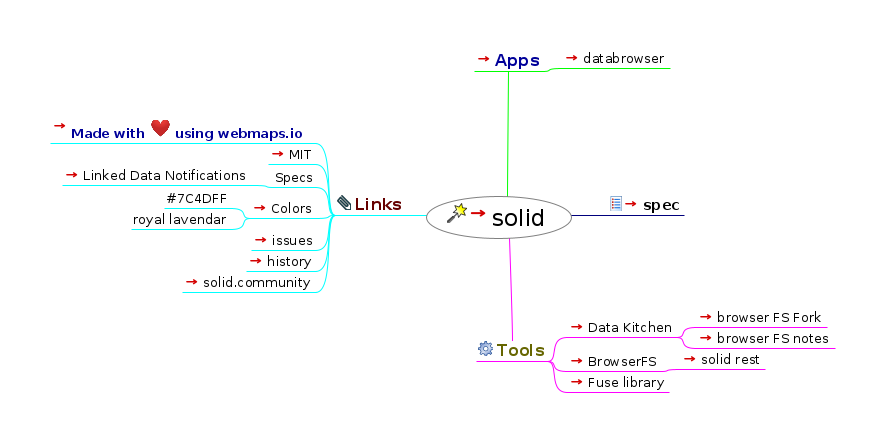
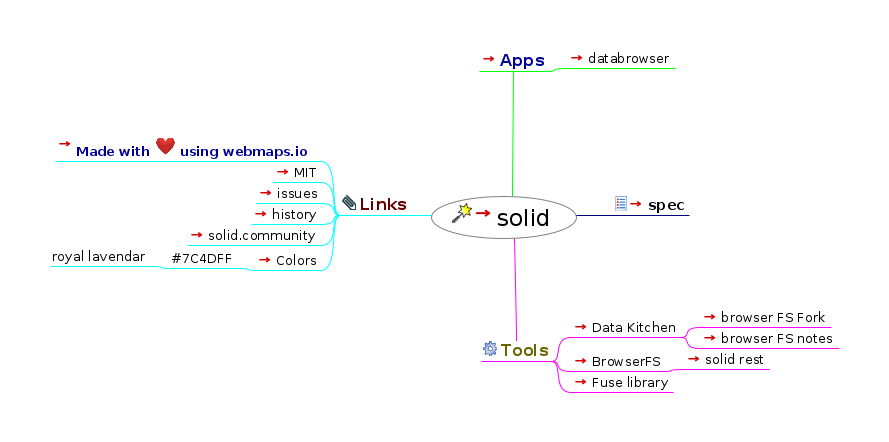
add html

diff --git a/index.html b/index.html
@@ -23,31 +23,29 @@
                    };
                };
           
-          --></script></head><body><h1>solid</h1><div style="width:96%;  padding:2%;  margin-bottom:10px;  border: 0px;  text-align:center;  vertical-align:center;"><img src="index.html_files/image.png" style="margin-bottom:10px; &#9;border: 0px; &#9;text-align:center; &#9;vertical-align:center;" alt="Imagemap" usemap="#fm_imagemap" /></div><map name="fm_imagemap" id="fm_imagemap"><area shape="rect" href="../tech/index.html" alt="solid" title="solid" coords="426,196,572,239" />
-<area shape="rect" href="apps/index.html" alt="Apps" title="Apps" coords="474,51,543,71" />
-<area shape="rect" href="databrowser/index.html" alt="databrowser" title="databrowser" coords="562,50,670,68" />
-<area shape="rect" href="spec/index.html" alt="spec" title="spec" coords="607,196,684,215" />
-<area shape="rect" href="#FMID_1810859973FM" alt="Tools" title="Tools" coords="476,341,548,361" />
-<area shape="rect" href="https://github.com/solid/data-kitchen" alt="Data Kitchen" title="Data Kitchen" coords="567,319,677,337" />
-<area shape="rect" href="https://github.com/jeff-zucker/data-kitchen" alt="browser FS Fork" title="browser FS Fork" coords="696,309,827,327" />
-<area shape="rect" href="https://github.com/jeff-zucker/data-kitchen/blob/master/README.jz.md#these-things-currenlty-work-using-the-databrowser-in-file-and-app-spaces" alt="browser FS notes" title="browser FS notes" coords="696,330,835,348" />
-<area shape="rect" href="https://github.com/jvilk/BrowserFS" alt="BrowserFS" title="BrowserFS" coords="567,353,661,371" />
-<area shape="rect" href="https://github.com/jeff-zucker/solid-rest/tree/browserFS" alt="solid rest" title="solid rest" coords="680,351,765,369" />
-<area shape="rect" href="https://github.com/fuse-friends/fuse-native" alt="Fuse library" title="Fuse library" coords="567,374,669,392" />
-<area shape="rect" href="#FMID_777477932FM" alt="Links" title="Links" coords="335,195,405,215" />
-<area shape="rect" href="https://webmaps.io/" alt="Made with  using webmaps.io" title="Made with  using webmaps.io" coords="50,118,316,143" />
-<area shape="rect" href="https://solid.mit.edu" alt="MIT" title="MIT" coords="268,146,316,164" />
-<area shape="rect" href="#FMID_1604622862FM" alt="Specs" title="Specs" coords="273,169,316,187" />
-<area shape="rect" href="https://www.w3.org/TR/ldn/" alt="Linked Data Notifications" title="Linked Data Notifications" coords="62,167,254,185" />
-<area shape="rect" href="https://design.inrupt.com/atomic-core/?cat=Core#Colors" alt="Colors" title="Colors" coords="250,200,316,218" />
-<area shape="rect" href="#FMID_1864362129FM" alt="#7C4DFF" title="#7C4DFF" coords="164,190,231,208" />
-<area shape="rect" href="#FMID_1993946970FM" alt="royal lavendar" title="royal lavendar" coords="131,211,231,229" />
-<area shape="rect" href="issues/index.html" alt="issues" title="issues" coords="251,232,316,250" />
-<area shape="rect" href="https://www.w3.org/wiki/Socialwg/2015-03-18-minutes" alt="history" title="history" coords="246,253,316,271" />
-<area shape="rect" href="solid.community/index.html" alt="solid.community" title="solid.community" coords="182,274,316,292" />
+          --></script></head><body><h1>solid</h1><div style="width:96%;  padding:2%;  margin-bottom:10px;  border: 0px;  text-align:center;  vertical-align:center;"><img src="index.html_files/image.png" style="margin-bottom:10px; &#9;border: 0px; &#9;text-align:center; &#9;vertical-align:center;" alt="Imagemap" usemap="#fm_imagemap" /></div><map name="fm_imagemap" id="fm_imagemap"><area shape="rect" href="../tech/index.html" alt="solid" title="solid" coords="431,196,577,239" />
+<area shape="rect" href="apps/index.html" alt="Apps" title="Apps" coords="479,51,548,71" />
+<area shape="rect" href="databrowser/index.html" alt="databrowser" title="databrowser" coords="567,50,675,68" />
+<area shape="rect" href="spec/index.html" alt="spec" title="spec" coords="612,196,689,215" />
+<area shape="rect" href="#FMID_1810859973FM" alt="Tools" title="Tools" coords="481,341,552,361" />
+<area shape="rect" href="https://github.com/solid/data-kitchen" alt="Data Kitchen" title="Data Kitchen" coords="571,319,681,337" />
+<area shape="rect" href="https://github.com/jeff-zucker/data-kitchen" alt="browser FS Fork" title="browser FS Fork" coords="700,309,831,327" />
+<area shape="rect" href="https://github.com/jeff-zucker/data-kitchen/blob/master/README.jz.md#these-things-currenlty-work-using-the-databrowser-in-file-and-app-spaces" alt="browser FS notes" title="browser FS notes" coords="700,330,839,348" />
+<area shape="rect" href="https://github.com/jvilk/BrowserFS" alt="BrowserFS" title="BrowserFS" coords="571,353,665,371" />
+<area shape="rect" href="https://github.com/jeff-zucker/solid-rest/tree/browserFS" alt="solid rest" title="solid rest" coords="684,351,769,369" />
+<area shape="rect" href="https://github.com/fuse-friends/fuse-native" alt="Fuse library" title="Fuse library" coords="571,374,673,392" />
+<area shape="rect" href="#FMID_777477932FM" alt="Links" title="Links" coords="340,195,410,215" />
+<area shape="rect" href="https://webmaps.io/" alt="Made with  using webmaps.io" title="Made with  using webmaps.io" coords="55,136,321,161" />
+<area shape="rect" href="https://solid.mit.edu" alt="MIT" title="MIT" coords="273,164,321,182" />
+<area shape="rect" href="issues/index.html" alt="issues" title="issues" coords="256,185,321,203" />
+<area shape="rect" href="https://www.w3.org/wiki/Socialwg/2015-03-18-minutes" alt="history" title="history" coords="251,206,321,224" />
+<area shape="rect" href="solid.community/index.html" alt="solid.community" title="solid.community" coords="187,227,321,245" />
+<area shape="rect" href="https://design.inrupt.com/atomic-core/?cat=Core#Colors" alt="Colors" title="Colors" coords="255,252,321,270" />
+<area shape="rect" href="#FMID_1864362129FM" alt="#7C4DFF" title="#7C4DFF" coords="169,250,236,268" />
+<area shape="rect" href="#FMID_1993946970FM" alt="royal lavendar" title="royal lavendar" coords="50,248,150,266" />
 </map>
 
 <div class="node"><img src="index.html_files/hide.png" class="hideshow" alt="hide" onClick="toggle(&quot;N65543&quot;)" id="imgN65543" /><img src="index.html_files/icons/wizard.svg" alt="wizard" /> <a id="FMID_237352286FM" /><div class="nodecontent" style="color:#000000;font-size:150%;"><a href="../tech/index.html">solid</a> <a href="../tech/index.html"><img src="index.html_files/ilink.png" alt="User Link" style="border-width:0" /></a></div><div class="content" id="N65543"><div class="node"><img src="index.html_files/hide.png" class="hideshow" alt="hide" onClick="toggle(&quot;N66445&quot;)" id="imgN66445" /><a id="FMID_1861071781FM" /><div class="nodecontent" style="color:#000099;font-size:100%;font-weight:bold;"><a href="apps/index.html">Apps</a> <a href="apps/index.html"><img src="index.html_files/ilink.png" alt="User Link" style="border-width:0" /></a></div><div class="content" id="N66445"><div class="node"><img src="index.html_files/leaf.png" class="hideshow" alt="leaf" /><a id="FMID_589909741FM" /><div class="nodecontent" style="color:#000000;font-size:83%;"><a href="databrowser/index.html">databrowser</a> <a href="databrowser/index.html"><img src="index.html_files/ilink.png" alt="User Link" style="border-width:0" /></a></div></div></div></div><div class="node"><img src="index.html_files/leaf.png" class="hideshow" alt="leaf" /><img src="index.html_files/icons/list.svg" alt="list" /> <a id="FMID_45632273FM" /><div class="nodecontent" style="color:#000000;font-size:92%;font-weight:bold;"><a href="spec/index.html">spec</a> <a href="spec/index.html"><img src="index.html_files/ilink.png" alt="User Link" style="border-width:0" /></a></div></div><div class="node"><img src="index.html_files/hide.png" class="hideshow" alt="hide" onClick="toggle(&quot;N66567&quot;)" id="imgN66567" /><img src="index.html_files/icons/executable.svg" alt="executable" /> <a id="FMID_1810859973FM" /><div class="nodecontent" style="color:#666600;font-size:100%;font-weight:bold;">Tools</div><div class="content" id="N66567"><div class="node"><img src="index.html_files/hide.png" class="hideshow" alt="hide" onClick="toggle(&quot;N66610&quot;)" id="imgN66610" /><a id="FMID_464490085FM" /><div class="nodecontent" style="color:#000000;font-size:83%;"><a href="https://github.com/solid/data-kitchen">Data Kitchen</a> <a href="https://github.com/solid/data-kitchen"><img src="index.html_files/ilink.png" alt="User Link" style="border-width:0" /></a></div><div class="content" id="N66610"><div class="node"><img src="index.html_files/leaf.png" class="hideshow" alt="leaf" /><a id="FMID_1249692100FM" /><div class="nodecontent" style="color:#000000;font-size:83%;"><a href="https://github.com/jeff-zucker/data-kitchen">browser FS Fork</a> <a href="https://github.com/jeff-zucker/data-kitchen"><img src="index.html_files/ilink.png" alt="User Link" style="border-width:0" /></a></div></div><div class="node"><img src="index.html_files/leaf.png" class="hideshow" alt="leaf" /><a id="FMID_159496431FM" /><div class="nodecontent" style="color:#000000;font-size:83%;"><a href="https://github.com/jeff-zucker/data-kitchen/blob/master/README.jz.md#these-things-currenlty-work-using-the-databrowser-in-file-and-app-spaces">browser FS notes</a> <a href="https://github.com/jeff-zucker/data-kitchen/blob/master/README.jz.md#these-things-currenlty-work-using-the-databrowser-in-file-and-app-spaces"><img src="index.html_files/ilink.png" alt="User Link" style="border-width:0" /></a></div></div></div></div><div class="node"><img src="index.html_files/hide.png" class="hideshow" alt="hide" onClick="toggle(&quot;N66721&quot;)" id="imgN66721" /><a id="FMID_254470917FM" /><div class="nodecontent" style="color:#000000;font-size:83%;"><a href="https://github.com/jvilk/BrowserFS">BrowserFS</a> <a href="https://github.com/jvilk/BrowserFS"><img src="index.html_files/ilink.png" alt="User Link" style="border-width:0" /></a></div><div class="content" id="N66721"><div class="node"><img src="index.html_files/leaf.png" class="hideshow" alt="leaf" /><a id="FMID_1269514055FM" /><div class="nodecontent" style="color:#000000;font-size:83%;"><a href="https://github.com/jeff-zucker/solid-rest/tree/browserFS">solid rest</a> <a href="https://github.com/jeff-zucker/solid-rest/tree/browserFS"><img src="index.html_files/ilink.png" alt="User Link" style="border-width:0" /></a></div></div></div></div><div class="node"><img src="index.html_files/leaf.png" class="hideshow" alt="leaf" /><a id="FMID_845285837FM" /><div class="nodecontent" style="color:#000000;font-size:83%;"><a href="https://github.com/fuse-friends/fuse-native">Fuse library</a> <a href="https://github.com/fuse-friends/fuse-native"><img src="index.html_files/ilink.png" alt="User Link" style="border-width:0" /></a></div></div></div></div><div class="node"><img src="index.html_files/hide.png" class="hideshow" alt="hide" onClick="toggle(&quot;N66833&quot;)" id="imgN66833" /><img src="index.html_files/icons/attach.svg" alt="attach" /> <a id="FMID_777477932FM" /><div class="nodecontent" style="color:#660000;font-size:100%;font-weight:bold;">Links</div><div class="content" id="N66833"><div class="node"><img src="index.html_files/leaf.png" class="hideshow" alt="leaf" /><a id="FMID_1974475433FM" /><div class="nodecontent" style="color:#000099;font-size:83%;font-weight:bold;"><a href="https://webmaps.io/">
     Made with <img class="emoji" alt="heart" height="20" width="20" src="https://github.githubassets.com/images/icons/emoji/unicode/2764.png" style="border-top-style: none; border-right-style: none; border-bottom-style: none; border-left-style: none" /> using webmaps.io
-  </a> <a href="https://webmaps.io/"><img src="index.html_files/ilink.png" alt="User Link" style="border-width:0" /></a></div></div><div class="node"><img src="index.html_files/leaf.png" class="hideshow" alt="leaf" /><a id="FMID_671925292FM" /><div class="nodecontent" style="color:#000000;font-size:83%;"><a href="https://solid.mit.edu">MIT</a> <a href="https://solid.mit.edu"><img src="index.html_files/ilink.png" alt="User Link" style="border-width:0" /></a></div></div><div class="node"><img src="index.html_files/hide.png" class="hideshow" alt="hide" onClick="toggle(&quot;N66970&quot;)" id="imgN66970" /><a id="FMID_1604622862FM" /><div class="nodecontent" style="color:#000000;font-size:83%;">Specs</div><div class="content" id="N66970"><div class="node"><img src="index.html_files/leaf.png" class="hideshow" alt="leaf" /><a id="FMID_1990139043FM" /><div class="nodecontent" style="color:#000000;font-size:83%;"><a href="https://www.w3.org/TR/ldn/">Linked Data Notifications</a> <a href="https://www.w3.org/TR/ldn/"><img src="index.html_files/ilink.png" alt="User Link" style="border-width:0" /></a></div></div></div></div><div class="node"><img src="index.html_files/hide.png" class="hideshow" alt="hide" onClick="toggle(&quot;N67043&quot;)" id="imgN67043" /><a id="FMID_960031878FM" /><div class="nodecontent" style="color:#000000;font-size:83%;"><a href="https://design.inrupt.com/atomic-core/?cat=Core#Colors">Colors</a> <a href="https://design.inrupt.com/atomic-core/?cat=Core#Colors"><img src="index.html_files/ilink.png" alt="User Link" style="border-width:0" /></a></div><div class="content" id="N67043"><div class="node"><img src="index.html_files/leaf.png" class="hideshow" alt="leaf" /><a id="FMID_1864362129FM" /><div class="nodecontent" style="color:#000000;font-size:83%;">#7C4DFF</div></div><div class="node"><img src="index.html_files/leaf.png" class="hideshow" alt="leaf" /><a id="FMID_1993946970FM" /><div class="nodecontent" style="color:#000000;font-size:83%;">royal lavendar</div></div></div></div><div class="node"><img src="index.html_files/leaf.png" class="hideshow" alt="leaf" /><a id="FMID_1662681886FM" /><div class="nodecontent" style="color:#000000;font-size:83%;"><a href="issues/index.html">issues</a> <a href="issues/index.html"><img src="index.html_files/ilink.png" alt="User Link" style="border-width:0" /></a></div></div><div class="node"><img src="index.html_files/leaf.png" class="hideshow" alt="leaf" /><a id="FMID_1693475953FM" /><div class="nodecontent" style="color:#000000;font-size:83%;"><a href="https://www.w3.org/wiki/Socialwg/2015-03-18-minutes">history</a> <a href="https://www.w3.org/wiki/Socialwg/2015-03-18-minutes"><img src="index.html_files/ilink.png" alt="User Link" style="border-width:0" /></a></div></div><div class="node"><img src="index.html_files/leaf.png" class="hideshow" alt="leaf" /><a id="FMID_246084453FM" /><div class="nodecontent" style="color:#000000;font-size:83%;"><a href="solid.community/index.html">solid.community</a> <a href="solid.community/index.html"><img src="index.html_files/ilink.png" alt="User Link" style="border-width:0" /></a></div></div></div></div></div></div>
+  </a> <a href="https://webmaps.io/"><img src="index.html_files/ilink.png" alt="User Link" style="border-width:0" /></a></div></div><div class="node"><img src="index.html_files/leaf.png" class="hideshow" alt="leaf" /><a id="FMID_671925292FM" /><div class="nodecontent" style="color:#000000;font-size:83%;"><a href="https://solid.mit.edu">MIT</a> <a href="https://solid.mit.edu"><img src="index.html_files/ilink.png" alt="User Link" style="border-width:0" /></a></div></div><div class="node"><img src="index.html_files/leaf.png" class="hideshow" alt="leaf" /><a id="FMID_1662681886FM" /><div class="nodecontent" style="color:#000000;font-size:83%;"><a href="issues/index.html">issues</a> <a href="issues/index.html"><img src="index.html_files/ilink.png" alt="User Link" style="border-width:0" /></a></div></div><div class="node"><img src="index.html_files/leaf.png" class="hideshow" alt="leaf" /><a id="FMID_1693475953FM" /><div class="nodecontent" style="color:#000000;font-size:83%;"><a href="https://www.w3.org/wiki/Socialwg/2015-03-18-minutes">history</a> <a href="https://www.w3.org/wiki/Socialwg/2015-03-18-minutes"><img src="index.html_files/ilink.png" alt="User Link" style="border-width:0" /></a></div></div><div class="node"><img src="index.html_files/leaf.png" class="hideshow" alt="leaf" /><a id="FMID_246084453FM" /><div class="nodecontent" style="color:#000000;font-size:83%;"><a href="solid.community/index.html">solid.community</a> <a href="solid.community/index.html"><img src="index.html_files/ilink.png" alt="User Link" style="border-width:0" /></a></div></div><div class="node"><img src="index.html_files/hide.png" class="hideshow" alt="hide" onClick="toggle(&quot;N67081&quot;)" id="imgN67081" /><a id="FMID_960031878FM" /><div class="nodecontent" style="color:#000000;font-size:83%;"><a href="https://design.inrupt.com/atomic-core/?cat=Core#Colors">Colors</a> <a href="https://design.inrupt.com/atomic-core/?cat=Core#Colors"><img src="index.html_files/ilink.png" alt="User Link" style="border-width:0" /></a></div><div class="content" id="N67081"><div class="node"><img src="index.html_files/hide.png" class="hideshow" alt="hide" onClick="toggle(&quot;N67117&quot;)" id="imgN67117" /><a id="FMID_1864362129FM" /><div class="nodecontent" style="color:#000000;font-size:83%;">#7C4DFF</div><div class="content" id="N67117"><div class="node"><img src="index.html_files/leaf.png" class="hideshow" alt="leaf" /><a id="FMID_1993946970FM" /><div class="nodecontent" style="color:#000000;font-size:83%;">royal lavendar</div></div></div></div></div></div></div></div></div></div>
 </body></html>

diff --git a/index.ppt.html b/index.ppt.html
@@ -9,10 +9,10 @@
         <meta name="apple-mobile-web-app-capable" content="yes">
         <meta name="apple-mobile-web-app-status-bar-style" content="black-translucent">
         <meta name="viewport" content="width=device-width, initial-scale=1.0, maximum-scale=1.0, user-scalable=no">
-        <link rel="stylesheet" href="https://solidpayorg.github.io/reveal.js/css/reveal.css">
-        <link rel="stylesheet" id="theme" href="https://solidpayorg.github.io/reveal.js/css/theme/solid.css">
+        <link rel="stylesheet" href="reveal.js/css/reveal.css">
+        <link rel="stylesheet" id="theme" href="reveal.js/css/theme/moon.css">
         <!--For syntax highlighting-->
-        <link rel="stylesheet" href="https://solidpayorg.github.io/reveal.js/lib/css/zenburn.css">
+        <link rel="stylesheet" href="reveal.js/lib/css/zenburn.css">
         <style type="text/css">
             a.connector, a.subsection {margin-left: 1ex; font-size: smaller}
             .illustrations a {float:left; margin: 1ex 5px; max-width:100%}
@@ -37,11 +37,11 @@
         </style>
         <!--If the query includes 'print-pdf', use the PDF print sheet. works in Chrome, maybe not other browsers-->
         <script type="text/javascript">
-        document.write( '<link rel="stylesheet" href="https://solidpayorg.github.io/reveal.js/css/print/' + ( window.location.search.match( /print-pdf/gi ) ? 'pdf' : 'paper' ) + '.css" type="text/css" media="print" />' );
+        document.write( '<link rel="stylesheet" href="reveal.js/css/print/' + ( window.location.search.match( /print-pdf/gi ) ? 'pdf' : 'paper' ) + '.css" type="text/css" media="print" />' );
         </script>
         <!--
             [if lt IE 9]>
-            <script src="https://solidpayorg.github.io/reveal.js/lib/js/html5shiv.js"></script>
+            <script src="reveal.js/lib/js/html5shiv.js"></script>
             <![endif]
         -->
         <!--placeholder for custom header items (typically scripts or stylesheets)-->
@@ -50,14 +50,19 @@
         <div class="reveal">
             <!--Any section element inside of this container is displayed as a slide-->
             <div id="mindslide" class="slides">
-                <section class="content" id="ID_237352286">
-                    <h2>solid</h2>
+                <section class="title" id="ID_237352286">
+                    <h1>solid</h1>
+                    <ul>
+                        <li class="icon">
+                            <span aria-hidden="true" class="fa fa-list"></span><a href="spec/index.mm" class="link external">spec</a>
+                        </li>
+                    </ul>
+                </section>
+                <section class="toc">
+                    <h2>Table of Content</h2>
                     <ul>
                         <li>
                             Apps<a href="#/ID_1861071781" class="link subsection"> &#8628;</a>
-                        </li>
-                        <li class="icon">
-                            <span aria-hidden="true" class="fa fa-list"></span><a href="spec/index.mm" class="link external">spec</a>
                         </li>
                         <li class="icon">
                             <span aria-hidden="true" class="fa fa-gears"></span>Tools<a href="#/ID_1810859973" class="link subsection"> &#8628;</a>
@@ -68,7 +73,7 @@
                     </ul>
                 </section>
                 <section class="content" id="ID_1861071781">
-                    <h3>Apps</h3>
+                    <h2>Apps</h2>
                     <ul>
                         <li>
                             <a href="databrowser/index.mm" class="link external">databrowser</a>
@@ -78,7 +83,7 @@
                 <!--new subsection-->
                 <section>
                     <section class="content" id="ID_1810859973">
-                        <h3>Tools</h3>
+                        <h2>Tools</h2>
                         <ul>
                             <li>
                                 Data Kitchen<a href="#/ID_464490085" class="link subsection"> &#8628;</a>
@@ -92,7 +97,7 @@
                         </ul>
                     </section>
                     <section class="content" id="ID_464490085">
-                        <h4>Data Kitchen</h4>
+                        <h3>Data Kitchen</h3>
                         <ul>
                             <li>
                                 <a href="https://github.com/jeff-zucker/data-kitchen" class="link external">browser FS Fork</a>
@@ -103,7 +108,7 @@
                         </ul>
                     </section>
                     <section class="content" id="ID_254470917">
-                        <h4>BrowserFS</h4>
+                        <h3>BrowserFS</h3>
                         <ul>
                             <li>
                                 <a href="https://github.com/jeff-zucker/solid-rest/tree/browserFS" class="link external">solid rest</a>
@@ -114,7 +119,7 @@
                 <!--new subsection-->
                 <section>
                     <section class="content" id="ID_777477932">
-                        <h3>Links</h3>
+                        <h2>Links</h2>
                         <ul>
                             <li>
                                 <a href="https://webmaps.io/" class="link external">
@@ -125,12 +130,6 @@
                                 <a href="https://solid.mit.edu" class="link external">MIT</a>
                             </li>
                             <li>
-                                Specs<a href="#/ID_1604622862" class="link subsection"> &#8628;</a>
-                            </li>
-                            <li>
-                                Colors<a href="#/ID_960031878" class="link subsection"> &#8628;</a>
-                            </li>
-                            <li>
                                 <a href="issues/index.mm" class="link external">issues</a>
                             </li>
                             <li>
@@ -139,20 +138,22 @@
                             <li>
                                 <a href="solid.community/index.mm" class="link external">solid.community</a>
                             </li>
-                        </ul>
-                    </section>
-                    <section class="content" id="ID_1604622862">
-                        <h4>Specs</h4>
-                        <ul>
                             <li>
-                                <a href="https://www.w3.org/TR/ldn/" class="link external">Linked Data Notifications</a>
+                                Colors<a href="#/ID_960031878" class="link subsection"> &#8628;</a>
                             </li>
                         </ul>
                     </section>
                     <section class="content" id="ID_960031878">
-                        <h4>Colors</h4>
+                        <h3>Colors</h3>
                         <ul>
-                            <li>#7C4DFF</li>
+                            <li>
+                                #7C4DFF<a href="#/ID_1864362129" class="link subsection"> &#8628;</a>
+                            </li>
+                        </ul>
+                    </section>
+                    <section class="content" id="ID_1864362129">
+                        <h4>#7C4DFF</h4>
+                        <ul>
                             <li>royal lavendar</li>
                         </ul>
                     </section>
@@ -168,9 +169,9 @@
             </div>
         </div>
         <footer class="info">
-            solid | <a href="http://berteh.github.io/mindslide/">Mindslide</a> v 0.5 |  <a href="http://freeplane.sourceforge.net/">Freeplane</a> map vfreeplane 1.7.0
+            solid | <a href="http://berteh.github.io/mindslide/">Mindslide</a> v 0.5 |  <a href="http://freeplane.sourceforge.net/">Freeplane</a> map vfreeplane 1.8.0
         </footer>
-        <script src="https://solidpayorg.github.io/reveal.js/lib/js/head.min.js"></script><script src="https://solidpayorg.github.io/reveal.js/js/reveal.js"></script><script>
+        <script src="reveal.js/lib/js/head.min.js"></script><script src="reveal.js/js/reveal.js"></script><script>
 
 	//run reveal.js
 	// Full list of configuration options available here:
@@ -197,7 +198,7 @@
 		mouseWheel: true,
 		hideAddressBar: true,
 		previewLinks: false,
-		transition: 'cube',
+		transition: 'slide',
 		transitionSpeed: 'default',
 		backgroundTransition: 'slide',
 		viewDistance: 3,
@@ -206,19 +207,19 @@
 		parallaxBackgroundHorizontal: null,
 		parallaxBackgroundVertical: null,
 
-		theme: Reveal.getQueryHash().theme || 'solid',
-		transition: Reveal.getQueryHash().transition || 'cube',
+		theme: Reveal.getQueryHash().theme || 'moon',
+		transition: Reveal.getQueryHash().transition || 'slide',
 
 		
         // Optional libraries used to extend on reveal.js - see https://github.com/hakimel/reveal.js#dependencies
         dependencies: [
-          { src:'https://solidpayorg.github.io/reveal.js/lib/js/classList.js', condition: function() { return !document.body.classList; } },
-          { src:'https://solidpayorg.github.io/reveal.js/plugin/highlight/highlight.js', async: true, callback: function() { hljs.initHighlightingOnLoad(); } },
-          { src:'https://solidpayorg.github.io/reveal.js/plugin/zoom-js/zoom.js', async: true, condition: function() { return !!document.body.classList; } },
-          { src:'https://solidpayorg.github.io/reveal.js/plugin/notes/notes.js', async: true, condition: function() { return !!document.body.classList; } }
-          //{ src:'https://solidpayorg.github.io/reveal.js/plugin/markdown/marked.js', condition: function() { return !!document.querySelector('[data-markdown]' ); } },
-          //{ src:'https://solidpayorg.github.io/reveal.js/plugin/markdown/markdown.js', condition: function() { return !!document.querySelector('[data-markdown]' ); } },
-		  //{ src:'https://solidpayorg.github.io/reveal.js/plugin/math/math.js', async: true }
+          { src:'reveal.js/lib/js/classList.js', condition: function() { return !document.body.classList; } },
+          { src:'reveal.js/plugin/highlight/highlight.js', async: true, callback: function() { hljs.initHighlightingOnLoad(); } },
+          { src:'reveal.js/plugin/zoom-js/zoom.js', async: true, condition: function() { return !!document.body.classList; } },
+          { src:'reveal.js/plugin/notes/notes.js', async: true, condition: function() { return !!document.body.classList; } }
+          //{ src:'reveal.js/plugin/markdown/marked.js', condition: function() { return !!document.querySelector('[data-markdown]' ); } },
+          //{ src:'reveal.js/plugin/markdown/markdown.js', condition: function() { return !!document.querySelector('[data-markdown]' ); } },
+		  //{ src:'reveal.js/plugin/math/math.js', async: true }
 		]
     	
     });
